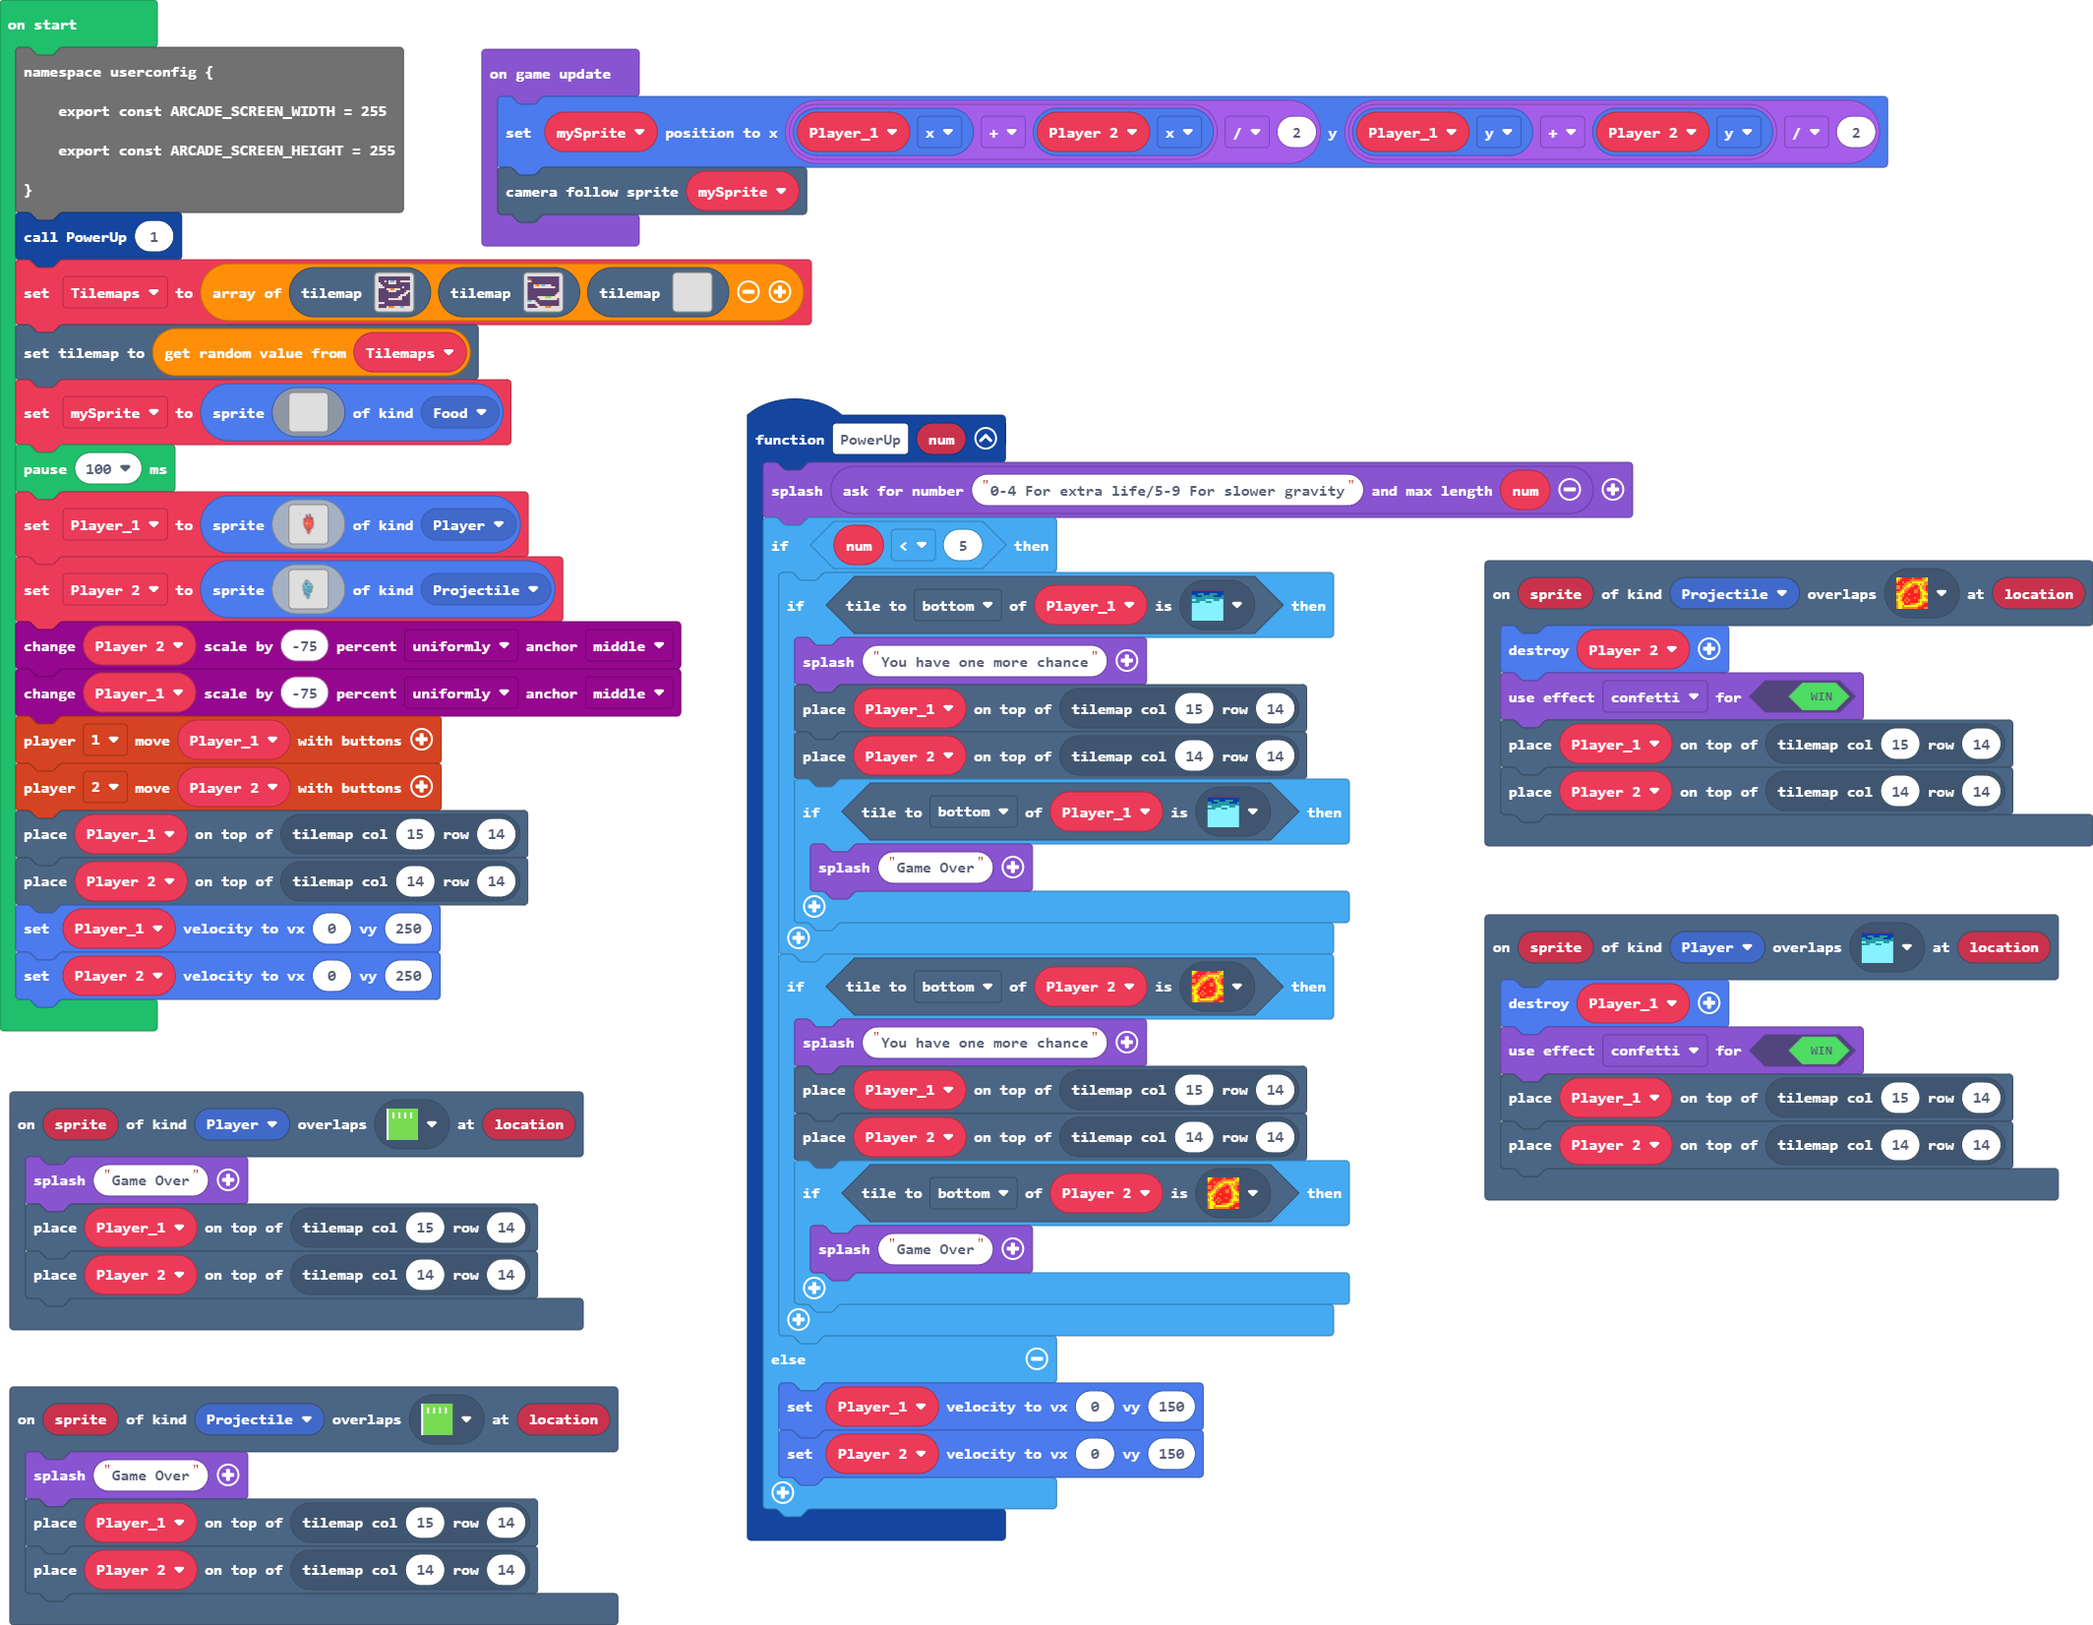
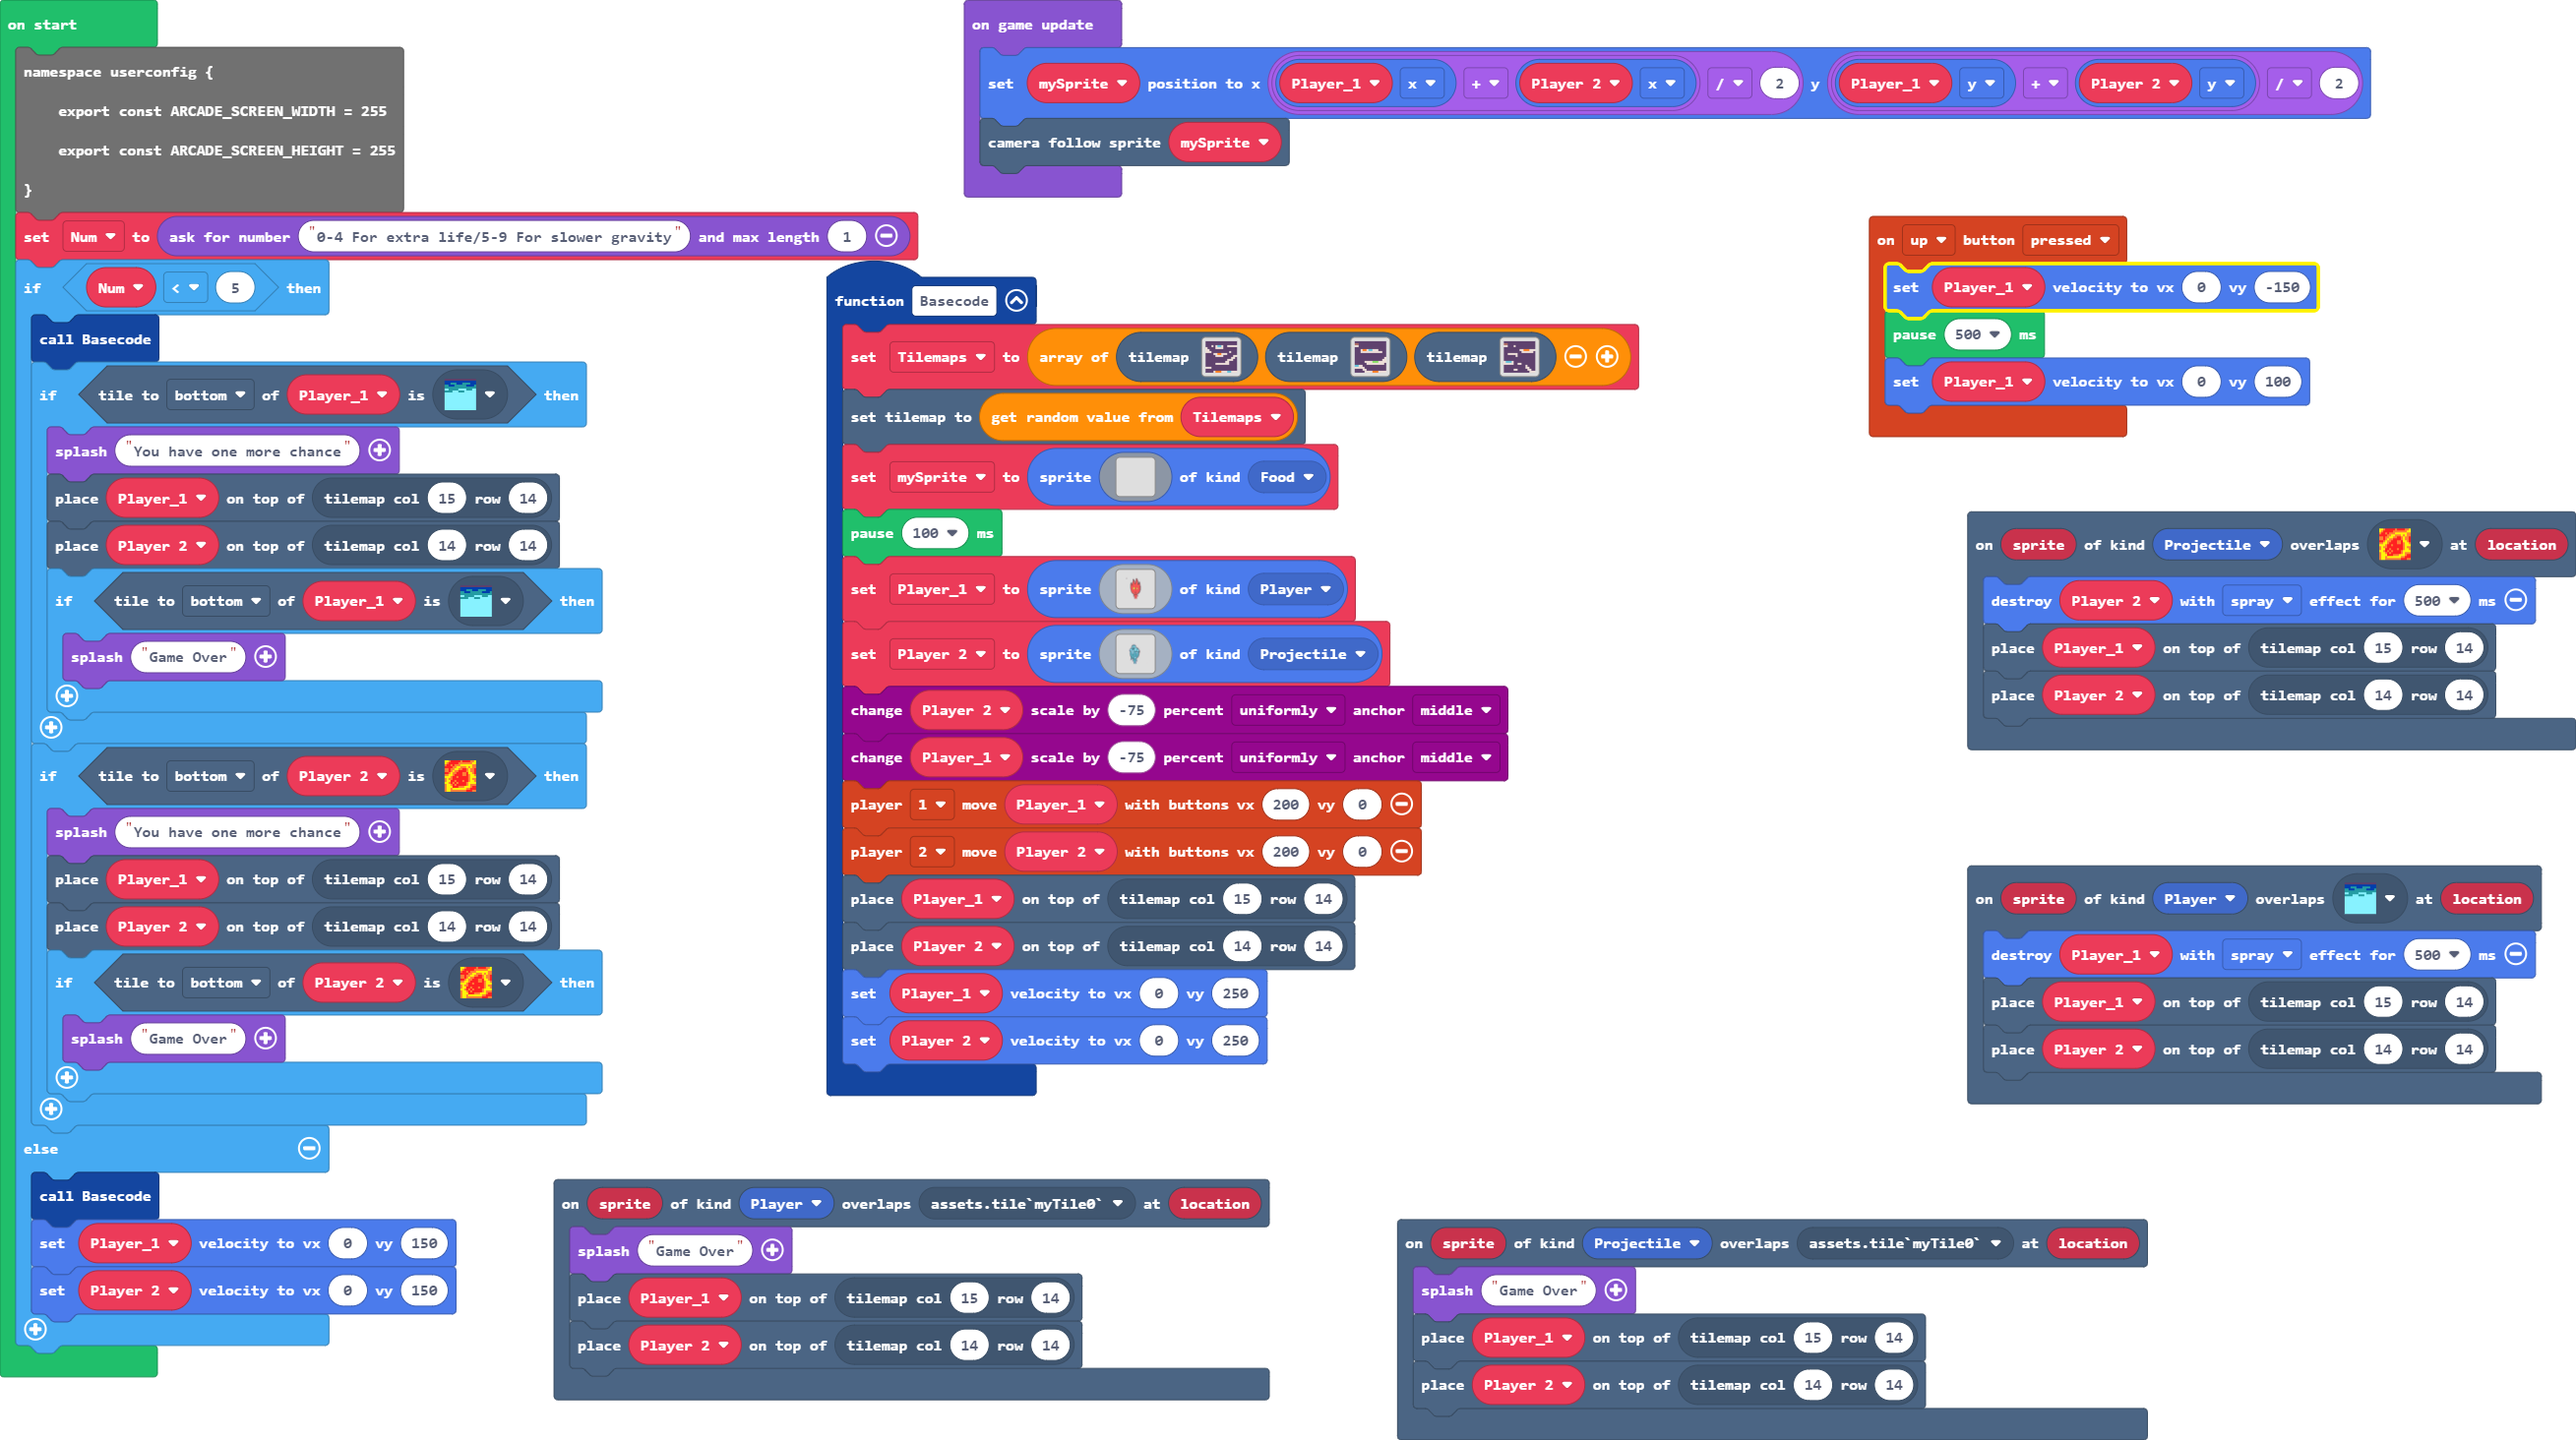
Update main.blocks, main.ts

diff --git a/main.ts b/main.ts
@@ -3,85 +3,91 @@ scene.onOverlapTile(SpriteKind.Player, assets.tile`myTile0`, function (sprite, l
     tiles.placeOnTile(Player_1, tiles.getTileLocation(15, 14))
     tiles.placeOnTile(Player_2, tiles.getTileLocation(14, 14))
 })
+controller.up.onEvent(ControllerButtonEvent.Pressed, function () {
+    Player_1.setVelocity(0, -150)
+    pause(500)
+    Player_1.setVelocity(0, 100)
+})
 scene.onOverlapTile(SpriteKind.Projectile, sprites.dungeon.hazardLava0, function (sprite, location) {
-    sprites.destroy(Player_2)
-    game.setGameOverEffect(true, effects.confetti)
+    sprites.destroy(Player_2, effects.spray, 500)
     tiles.placeOnTile(Player_1, tiles.getTileLocation(15, 14))
     tiles.placeOnTile(Player_2, tiles.getTileLocation(14, 14))
 })
-function PowerUp (num: number) {
-    game.splash(game.askForNumber("0-4 For extra life/5-9 For slower gravity", num))
-    if (num < 5) {
-        if (Player_1.tileKindAt(TileDirection.Bottom, sprites.dungeon.hazardWater)) {
-            game.splash("You have one more chance")
-            tiles.placeOnTile(Player_1, tiles.getTileLocation(15, 14))
-            tiles.placeOnTile(Player_2, tiles.getTileLocation(14, 14))
-            if (Player_1.tileKindAt(TileDirection.Bottom, sprites.dungeon.hazardWater)) {
-                game.splash("Game Over")
-            }
-        }
-        if (Player_2.tileKindAt(TileDirection.Bottom, sprites.dungeon.hazardLava0)) {
-            game.splash("You have one more chance")
-            tiles.placeOnTile(Player_1, tiles.getTileLocation(15, 14))
-            tiles.placeOnTile(Player_2, tiles.getTileLocation(14, 14))
-            if (Player_2.tileKindAt(TileDirection.Bottom, sprites.dungeon.hazardLava0)) {
-                game.splash("Game Over")
-            }
-        }
-    } else {
-        Player_1.setVelocity(0, 150)
-        Player_2.setVelocity(0, 150)
-    }
-}
 scene.onOverlapTile(SpriteKind.Projectile, assets.tile`myTile0`, function (sprite, location) {
     game.splash("Game Over")
     tiles.placeOnTile(Player_1, tiles.getTileLocation(15, 14))
     tiles.placeOnTile(Player_2, tiles.getTileLocation(14, 14))
 })
 scene.onOverlapTile(SpriteKind.Player, sprites.dungeon.hazardWater, function (sprite, location) {
-    sprites.destroy(Player_1)
-    game.setGameOverEffect(true, effects.confetti)
+    sprites.destroy(Player_1, effects.spray, 500)
     tiles.placeOnTile(Player_1, tiles.getTileLocation(15, 14))
     tiles.placeOnTile(Player_2, tiles.getTileLocation(14, 14))
 })
+function Basecode () {
+    Tilemaps = [tilemap`level 1`, tilemap`level3`, tilemap`level11`]
+    tiles.setCurrentTilemap(Tilemaps._pickRandom())
+    mySprite = sprites.create(img`
+        . . . . . . . . . . . . . . . . 
+        . . . . . . . . . . . . . . . . 
+        . . . . . . . . . . . . . . . . 
+        . . . . . . . . . . . . . . . . 
+        . . . . . . . . . . . . . . . . 
+        . . . . . . . . . . . . . . . . 
+        . . . . . . . . . . . . . . . . 
+        . . . . . . . . . . . . . . . . 
+        . . . . . . . . . . . . . . . . 
+        . . . . . . . . . . . . . . . . 
+        . . . . . . . . . . . . . . . . 
+        . . . . . . . . . . . . . . . . 
+        . . . . . . . . . . . . . . . . 
+        . . . . . . . . . . . . . . . . 
+        . . . . . . . . . . . . . . . . 
+        . . . . . . . . . . . . . . . . 
+        `, SpriteKind.Food)
+    pause(100)
+    Player_1 = sprites.create(assets.image`fire boy water girl`, SpriteKind.Player)
+    Player_2 = sprites.create(assets.image`fire boy water girl0`, SpriteKind.Projectile)
+    scaling.scaleByPercent(Player_2, -75, ScaleDirection.Uniformly, ScaleAnchor.Middle)
+    scaling.scaleByPercent(Player_1, -75, ScaleDirection.Uniformly, ScaleAnchor.Middle)
+    controller.player1.moveSprite(Player_1, 200, 0)
+    controller.player2.moveSprite(Player_2, 200, 0)
+    tiles.placeOnTile(Player_1, tiles.getTileLocation(15, 14))
+    tiles.placeOnTile(Player_2, tiles.getTileLocation(14, 14))
+    Player_1.setVelocity(0, 250)
+    Player_2.setVelocity(0, 250)
+}
+let mySprite: Sprite = null
+let Tilemaps: tiles.TileMapData[] = []
 let Player_2: Sprite = null
 let Player_1: Sprite = null
 namespace userconfig {
     export const ARCADE_SCREEN_WIDTH = 255
     export const ARCADE_SCREEN_HEIGHT = 255
 }
-PowerUp(1)
-let Tilemaps = [tilemap`level 1`, tilemap`level3`, tilemap`level11`]
-tiles.setCurrentTilemap(Tilemaps._pickRandom())
-let mySprite = sprites.create(img`
-    . . . . . . . . . . . . . . . . 
-    . . . . . . . . . . . . . . . . 
-    . . . . . . . . . . . . . . . . 
-    . . . . . . . . . . . . . . . . 
-    . . . . . . . . . . . . . . . . 
-    . . . . . . . . . . . . . . . . 
-    . . . . . . . . . . . . . . . . 
-    . . . . . . . . . . . . . . . . 
-    . . . . . . . . . . . . . . . . 
-    . . . . . . . . . . . . . . . . 
-    . . . . . . . . . . . . . . . . 
-    . . . . . . . . . . . . . . . . 
-    . . . . . . . . . . . . . . . . 
-    . . . . . . . . . . . . . . . . 
-    . . . . . . . . . . . . . . . . 
-    . . . . . . . . . . . . . . . . 
-    `, SpriteKind.Food)
-pause(100)
-Player_1 = sprites.create(assets.image`fire boy water girl`, SpriteKind.Player)
-Player_2 = sprites.create(assets.image`fire boy water girl0`, SpriteKind.Projectile)
-scaling.scaleByPercent(Player_2, -75, ScaleDirection.Uniformly, ScaleAnchor.Middle)
-scaling.scaleByPercent(Player_1, -75, ScaleDirection.Uniformly, ScaleAnchor.Middle)
-controller.player1.moveSprite(Player_1)
-controller.player2.moveSprite(Player_2)
-tiles.placeOnTile(Player_1, tiles.getTileLocation(15, 14))
-tiles.placeOnTile(Player_2, tiles.getTileLocation(14, 14))
-Player_1.setVelocity(0, 250)
-Player_2.setVelocity(0, 250)
+let Num = game.askForNumber("0-4 For extra life/5-9 For slower gravity", 1)
+if (Num < 5) {
+    Basecode()
+    if (Player_1.tileKindAt(TileDirection.Bottom, sprites.dungeon.hazardWater)) {
+        game.splash("You have one more chance")
+        tiles.placeOnTile(Player_1, tiles.getTileLocation(15, 14))
+        tiles.placeOnTile(Player_2, tiles.getTileLocation(14, 14))
+        if (Player_1.tileKindAt(TileDirection.Bottom, sprites.dungeon.hazardWater)) {
+            game.splash("Game Over")
+        }
+    }
+    if (Player_2.tileKindAt(TileDirection.Bottom, sprites.dungeon.hazardLava0)) {
+        game.splash("You have one more chance")
+        tiles.placeOnTile(Player_1, tiles.getTileLocation(15, 14))
+        tiles.placeOnTile(Player_2, tiles.getTileLocation(14, 14))
+        if (Player_2.tileKindAt(TileDirection.Bottom, sprites.dungeon.hazardLava0)) {
+            game.splash("Game Over")
+        }
+    }
+} else {
+    Basecode()
+    Player_1.setVelocity(0, 150)
+    Player_2.setVelocity(0, 150)
+}
 game.onUpdate(function () {
     mySprite.setPosition((Player_1.x + Player_2.x) / 2, (Player_1.y + Player_2.y) / 2)
     scene.cameraFollowSprite(mySprite)
